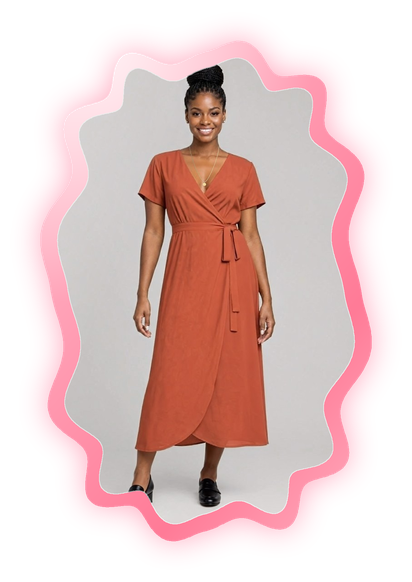
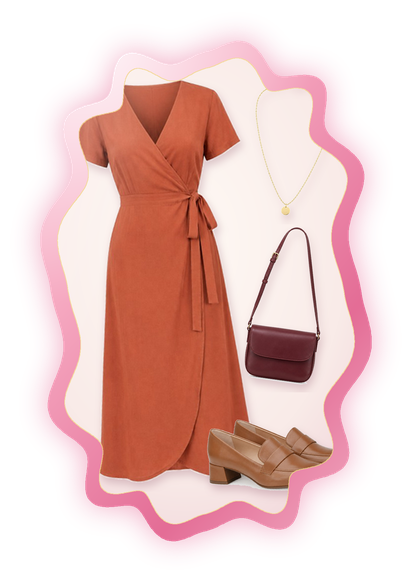
Glam opening: rose squiggle mirror reflects the cart as a flat-lay (pieces land with sparkle bursts, champagne dust, whole-cart total); unify palette to emerald, champagne and one rose accent

diff --git a/src/components/home/HeroMirror.tsx b/src/components/home/HeroMirror.tsx
@@ -4,63 +4,98 @@ import { useEffect, useId, useMemo, useState } from "react";
 import { mirrorPaths } from "@/lib/mirror";
 import { Mirror } from "@/components/Mirror";
 
-export type HeroFrame = { src: string; label: string; thumb?: string; detail?: string };
-export type HeroLook = { name: string; frames: HeroFrame[] };
+export type HeroSlot = "full" | "shoes" | "bag" | "necklace";
+export type HeroPiece = { src: string; name: string; detail: string; price: number; slot: HeroSlot };
+export type HeroLook = { name: string; pieces: HeroPiece[] };
 
-const STARS: [number, number, number, number][] = [[3, 20, 1.1, 0], [97, 46, .8, 1.1], [1, 108, .7, 2.2], [98, 122, 1.2, .6], [72, -3, .7, 1.7]];
+/* Where each piece lands in the flat-lay (mirror glass is 100 × 150): x, y, w, h, tilt */
+const SLOT: Record<HeroSlot, [number, number, number, number, number]> = {
+  full: [12, 13, 52, 118, -4],
+  necklace: [61, 13, 28, 40, 5],
+  bag: [58, 56, 32, 46, 8],
+  shoes: [50, 110, 42, 26, -7],
+};
 const STAR = "M0 -3C.35 -.35 .35 -.35 3 0C.35 .35 .35 .35 0 3C-.35 .35 -.35 .35 -3 0C-.35 -.35 -.35 -.35 0 -3Z";
+const STARS: [number, number, number, number][] = [[3, 20, 1.1, 0], [97, 46, .8, 1.1], [1, 108, .7, 2.2], [98, 122, 1.2, .6], [72, -3, .7, 1.7]];
+const BURST: [number, number][] = [[0, -15], [13, -8], [14, 7], [0, 15], [-13, 8], [-14, -7]];
+const DUST = Array.from({ length: 16 }, (_, i) => ({ x: 8 + ((i * 37) % 84), y: 40 + ((i * 53) % 100), r: .35 + (i % 3) * .25, d: (i * .83) % 7, t: 6 + (i % 4) }));
+const TICK = 1500;
 
-/** A glossy blush squiggle mirror whose edge ripples like liquid, dressing a model one cart item at a time (real YouCam outputs). */
+/** The opening mirror: a glossy rose squiggle that "reflects" a cart as each piece lands into a styled flat-lay. */
 export function HeroMirror({ looks }: { looks: HeroLook[] }) {
-  const seq = useMemo(() => looks.flatMap((l, li) => l.frames.map((_, fi) => ({ li, fi }))), [looks]);
   const [tick, setTick] = useState(0);
   const [still, setStill] = useState(false);
   useEffect(() => {
     if (window.matchMedia("(prefers-reduced-motion: reduce)").matches) { setStill(true); return; }
-    const t = setInterval(() => setTick((n) => n + 1), 2600);
+    const t = setInterval(() => setTick((n) => n + 1), TICK);
     return () => clearInterval(t);
   }, []);
   const id = useId().replace(/:/g, "");
   const shapes = useMemo(() => Array.from({ length: 9 }, (_, i) => mirrorPaths({ ratio: 1.5, rim: 5, amp: 3.4, waves: 12, phase: (i / 8) * Math.PI * 2 })), []);
-  const { li, fi } = seq[tick % seq.length];
+
+  const cycles = looks.map((l) => l.pieces.length + 4);
+  let t = still ? 0 : tick % cycles.reduce((a, b) => a + b, 0), li = 0;
+  while (t >= cycles[li]) { t -= cycles[li]; li++; }
   const look = looks[li];
-  const frame = look.frames[fi];
+  const n = look.pieces.length;
+  const landed = still ? n : Math.min(t, n);
+  const done = landed === n;
+  const leaving = !still && t === n + 3;
+  const latest = landed > 0 && !done ? look.pieces[landed - 1] : null;
+  const total = look.pieces.reduce((s, p) => s + p.price, 0);
+
   const morph = (k: "outer" | "inner") => still ? null :
     <animate attributeName="d" dur="14s" repeatCount="indefinite" values={shapes.map((s) => s[k]).join(";")} />;
   const u = (s: string) => `url(#${id}${s})`;
 
   return (
     <div className="relative mx-auto w-[min(68vw,300px)] sm:w-[310px] lg:w-[min(330px,calc((100svh-230px)/1.43))]">
-      <div className="glow-pulse pointer-events-none absolute -inset-12 rounded-full bg-[radial-gradient(closest-side,rgba(255,150,180,.42),transparent)] blur-2xl" />
+      <div className="glow-pulse pointer-events-none absolute -inset-12 rounded-full bg-[radial-gradient(closest-side,rgba(236,143,176,.4),transparent)] blur-2xl" />
       <div className="pointer-events-none absolute -bottom-6 left-1/2 h-10 w-[110%] -translate-x-1/2 rounded-[50%] bg-black/40 blur-xl" />
       <div className="float-slow relative">
-        <svg viewBox="-8 -8 116 166" className="relative block w-full overflow-visible" role="img" aria-label={`${look.name}: ${frame.label}`}>
+        <svg viewBox="-8 -8 116 166" className="relative block w-full overflow-visible" role="img"
+          aria-label={`${look.name}: ${look.pieces.map((p) => p.name).join(", ")}`}>
           <defs>
             <linearGradient id={`${id}r`} x1="0" y1="0" x2="1" y2="1">
-              <stop offset="0" stopColor="#ffe6ec" /><stop offset=".35" stopColor="#ffa3b8" /><stop offset=".68" stopColor="#ff7b97" /><stop offset="1" stopColor="#ffc6d2" />
+              <stop offset="0" stopColor="#ffe4ec" /><stop offset=".35" stopColor="#f6a9c1" /><stop offset=".68" stopColor="#e46d96" /><stop offset="1" stopColor="#f8cbd8" />
             </linearGradient>
             <radialGradient id={`${id}h`} cx=".26" cy=".08" r=".55">
-              <stop offset="0" stopColor="#fff" stopOpacity=".95" /><stop offset="1" stopColor="#fff" stopOpacity="0" />
+              <stop offset="0" stopColor="#fff" stopOpacity=".9" /><stop offset="1" stopColor="#fff" stopOpacity="0" />
+            </radialGradient>
+            <radialGradient id={`${id}b`} cx=".45" cy=".42" r=".75">
+              <stop offset="0" stopColor="#fffaf5" /><stop offset=".7" stopColor="#f9ebe8" /><stop offset="1" stopColor="#f1d6db" />
             </radialGradient>
             <linearGradient id={`${id}g`} x1="0" y1="0" x2="1" y2=".65">
-              <stop offset="0" stopColor="#fff" stopOpacity=".34" /><stop offset=".3" stopColor="#fff" stopOpacity="0" />
-              <stop offset=".75" stopColor="#fff" stopOpacity="0" /><stop offset="1" stopColor="#ffd6e0" stopOpacity=".3" />
+              <stop offset="0" stopColor="#fff" stopOpacity=".4" /><stop offset=".3" stopColor="#fff" stopOpacity="0" />
+              <stop offset=".75" stopColor="#fff" stopOpacity="0" /><stop offset="1" stopColor="#f6c9d6" stopOpacity=".35" />
             </linearGradient>
             <linearGradient id={`${id}s`} x1="0" x2="1">
-              <stop offset="0" stopColor="#fff" stopOpacity="0" /><stop offset=".5" stopColor="#fff" stopOpacity=".42" /><stop offset="1" stopColor="#fff" stopOpacity="0" />
+              <stop offset="0" stopColor="#fff" stopOpacity="0" /><stop offset=".5" stopColor="#fff6e0" stopOpacity=".55" /><stop offset="1" stopColor="#fff" stopOpacity="0" />
             </linearGradient>
             <filter id={`${id}f`} x="-30%" y="-30%" width="160%" height="160%"><feGaussianBlur stdDeviation="3.5" /></filter>
+            <filter id={`${id}d`} x="-20%" y="-20%" width="140%" height="140%"><feDropShadow dx=".6" dy="1.6" stdDeviation="1.4" floodColor="#6b2440" floodOpacity=".22" /></filter>
             <clipPath id={`${id}c`}><path d={shapes[0].inner}>{morph("inner")}</path></clipPath>
           </defs>
-          <path d={shapes[0].outer} fill="#ff8fab" opacity=".6" filter={u("f")}>{morph("outer")}</path>
+          <path d={shapes[0].outer} fill="#ec8fb0" opacity=".6" filter={u("f")}>{morph("outer")}</path>
           <path d={shapes[0].outer} fill={u("r")}>{morph("outer")}</path>
           <path d={shapes[0].outer} fill={u("h")}>{morph("outer")}</path>
           <g clipPath={u("c")}>
-            <rect x="0" y="0" width="100" height="150" fill="#ece5e1" />
-            {looks.flatMap((l, a) => l.frames.map((f, b) => (
-              <image key={`${a}-${b}`} href={f.src} x="2" y="2" width="96" height="146" preserveAspectRatio="xMidYMid slice"
-                style={{ opacity: a === li && b === fi ? 1 : 0, transition: "opacity .9s ease" }} />
-            )))}
+            <rect x="0" y="0" width="100" height="150" fill={u("b")} />
+            {DUST.map((p, i) => (
+              <circle key={i} className="dust" cx={p.x} cy={p.y} r={p.r} fill="#e8c46c"
+                style={{ "--d": `${p.d}s`, "--t": `${p.t}s` } as React.CSSProperties} />
+            ))}
+            <g key={li} filter={u("d")} style={{ opacity: leaving ? 0 : 1, transition: "opacity .9s ease" }}>
+              {look.pieces.map((p, i) => {
+                const [x, y, w, h, r] = SLOT[p.slot], on = i < landed;
+                return (
+                  <image key={p.src} href={p.src} x={x} y={y} width={w} height={h} preserveAspectRatio="xMidYMid meet"
+                    style={{ transformBox: "fill-box", transformOrigin: "center", opacity: on ? 1 : 0,
+                      transform: on ? `rotate(${r}deg)` : `translateY(-22px) scale(.55) rotate(${r - 24}deg)`,
+                      transition: "opacity .5s ease, transform .9s cubic-bezier(.2,1.5,.4,1)" }} />
+                );
+              })}
+            </g>
             <rect x="0" y="0" width="100" height="150" fill={u("g")} />
             {!still && (
               <rect x="-60" y="-10" width="36" height="170" fill={u("s")} transform="skewX(-12)">
@@ -68,33 +103,58 @@ export function HeroMirror({ looks }: { looks: HeroLook[] }) {
               </rect>
             )}
           </g>
-          <path d={shapes[0].inner} fill="none" stroke="#fff" strokeOpacity=".6" strokeWidth=".7">{morph("inner")}</path>
+          <path d={shapes[0].inner} fill="none" stroke="#f3d58f" strokeOpacity=".85" strokeWidth=".8">{morph("inner")}</path>
+          {!still && landed > 0 && (() => {
+            const [x, y, w, h] = done ? [0, 0, 100, 150] : SLOT[look.pieces[landed - 1].slot];
+            const s = done ? 2.4 : 1;
+            return (
+              <g key={`${li}-${landed}`} transform={`translate(${x + w / 2} ${y + h / 2})`}>
+                {BURST.map(([dx, dy], i) => (
+                  <path key={i} className="burst" d={STAR} fill={i % 2 ? "#fff" : "#f3d58f"}
+                    style={{ "--dx": `${dx * s}px`, "--dy": `${dy * s}px`, animationDelay: `${i * 40}ms` } as React.CSSProperties} />
+                ))}
+              </g>
+            );
+          })()}
           {STARS.map(([x, y, s, d]) => (
             <g key={`${x}-${y}`} transform={`translate(${x} ${y}) scale(${s})`}>
               <path className="twinkle" d={STAR} fill="#fff" style={{ animationDelay: `${d}s` }} />
             </g>
           ))}
         </svg>
-        <p className="absolute bottom-[10%] left-1/2 -translate-x-1/2 whitespace-nowrap rounded-full bg-black/45 px-3 py-1 font-mono text-[10px] uppercase tracking-[0.18em] text-white backdrop-blur">
+        <p className="absolute bottom-[9%] left-1/2 -translate-x-1/2 whitespace-nowrap rounded-full bg-velvet-deep/80 px-3 py-1 font-mono text-[10px] uppercase tracking-[0.18em] text-lime backdrop-blur">
           {look.name}
         </p>
       </div>
 
-      {frame.thumb && (
-        <div key={tick} className="tag-in absolute -right-8 top-[36%] w-28 rounded-2xl bg-paper p-2 text-ink shadow-[0_20px_40px_-18px_rgba(0,0,0,.6)] sm:-right-28 sm:w-36">
-          <Mirror ratio={1} rim={5} amp={3.5} waves={8} glass="bg-[#f0f0f0]"><img src={frame.thumb} alt="" className="h-full w-full object-contain p-2.5" /></Mirror>
-          <p className="mt-1.5 px-1 text-[11px] font-semibold leading-tight">{frame.label.replace(/^\+ /, "")}</p>
-          {frame.detail && <p className="px-1 text-[10px] text-muted">{frame.detail}</p>}
-          <span className="absolute -left-2 -top-2 grid h-6 w-6 place-items-center rounded-full bg-coral text-xs font-bold text-white">+</span>
+      {(latest || done) && (
+        <div key={`${li}-${landed}`} className="tag-in absolute -right-8 top-[36%] w-28 rounded-2xl bg-paper p-2 text-ink shadow-[0_20px_40px_-18px_rgba(0,0,0,.6)] sm:-right-28 sm:w-36">
+          {latest ? (
+            <>
+              <Mirror ratio={1} rim={5} amp={3.5} waves={8} glass="bg-[#fbf3f4]"><img src={latest.src} alt="" className="h-full w-full object-contain p-3" /></Mirror>
+              <p className="mt-1.5 px-1 text-[11px] font-semibold leading-tight">{latest.name}</p>
+              <p className="px-1 text-[10px] text-muted">{latest.detail}</p>
+            </>
+          ) : (
+            <div className="px-1 py-2 text-center">
+              <p className="font-mono text-[9px] uppercase tracking-[0.2em] text-coral">The whole cart</p>
+              <p className="serif-i mt-1 text-2xl leading-none">${total}</p>
+              <p className="mt-1.5 text-[10px] leading-snug text-muted">{n} pieces, seen together before checkout</p>
+            </div>
+          )}
+          <span className="absolute -left-2 -top-2 grid h-6 w-6 place-items-center rounded-full bg-coral text-xs font-bold text-white">{latest ? "+" : "✓"}</span>
         </div>
       )}
 
       <ol className="relative mt-8 flex flex-wrap justify-center gap-1.5">
-        {look.frames.map((f, i) => (
-          <li key={f.label} className={`rounded-full px-2.5 py-1 text-[11px] transition ${i === fi ? "bg-[#ff9fb5] text-[#4a0f22]" : i < fi ? "bg-white/20 text-white" : "bg-white/5 text-white/50"}`}>
-            {i === 0 ? "Her photo" : f.label.replace(/^\+ /, "")}
-          </li>
-        ))}
+        {[...look.pieces.map((p) => p.name), "Complete look"].map((name, i) => {
+          const at = done ? n : landed - 1;
+          return (
+            <li key={name} className={`rounded-full px-2.5 py-1 text-[11px] transition ${i === at ? "bg-blush text-velvet-deep" : i < at ? "bg-white/20 text-white" : "bg-white/5 text-white/50"}`}>
+              {name}
+            </li>
+          );
+        })}
       </ol>
     </div>
   );

diff --git a/src/app/(store)/page.tsx b/src/app/(store)/page.tsx
@@ -8,24 +8,30 @@ import { Mirror } from "@/components/Mirror";
 
 const looks = (manifest as { looks: Record<string, string> }).looks;
 const HERO: HeroLook[] = [
-  { name: "Zola · dinner look", frames: [
-    { src: "/hero/zola.jpg", label: "Photo" },
-    { src: "/hero/zola-dinner-0.jpg", label: "+ Wrap dress", thumb: "/products/wrap-dress-terracotta.jpg", detail: "Terracotta · $112" },
-    { src: "/hero/zola-dinner-1.jpg", label: "+ Loafers", thumb: "/products/block-heel-loafers-black.jpg", detail: "Black · $118" },
-    { src: "/hero/zola-dinner-2.jpg", label: "+ Pendant", thumb: "/products/gold-pendant-pendant.jpg", detail: "Gold · $58" },
+  { name: "Look 01 · Dinner", pieces: [
+    { src: "/hero/cut/wrap-dress-terracotta.png", name: "Wrap dress", detail: "Terracotta · $112", price: 112, slot: "full" },
+    { src: "/hero/cut/block-heel-loafers-tan.png", name: "Loafers", detail: "Tan · $118", price: 118, slot: "shoes" },
+    { src: "/hero/cut/mini-crossbody-burgundy.png", name: "Mini crossbody", detail: "Burgundy · $98", price: 98, slot: "bag" },
+    { src: "/hero/cut/gold-pendant-pendant.png", name: "Gold pendant", detail: "Gold · $58", price: 58, slot: "necklace" },
   ] },
-  { name: "Zola · studio look", frames: [
-    { src: "/hero/zola.jpg", label: "Photo" },
-    { src: "/hero/zola-studio-0.jpg", label: "+ Knit top", thumb: "/products/ribbed-knit-top-black.jpg", detail: "Black · $42" },
-    { src: "/hero/zola-studio-1.jpg", label: "+ Midi skirt", thumb: "/products/pleated-midi-skirt-sage.jpg", detail: "Sage · $74" },
-    { src: "/hero/zola-studio-2.jpg", label: "+ Loafers", thumb: "/products/block-heel-loafers-tan.jpg", detail: "Tan · $118" },
+  { name: "Look 02 · Gallery", pieces: [
+    { src: "/hero/cut/jumpsuit-black.png", name: "Jumpsuit", detail: "Black · $128", price: 128, slot: "full" },
+    { src: "/hero/cut/block-heel-loafers-black.png", name: "Loafers", detail: "Black · $118", price: 118, slot: "shoes" },
+    { src: "/hero/cut/leather-tote-cognac.png", name: "Leather tote", detail: "Cognac · $165", price: 165, slot: "bag" },
+    { src: "/hero/cut/gold-pendant-hoops.png", name: "Gold hoops", detail: "Gold · $58", price: 58, slot: "necklace" },
+  ] },
+  { name: "Look 03 · Brunch", pieces: [
+    { src: "/hero/cut/wrap-dress-sage.png", name: "Wrap dress", detail: "Sage · $112", price: 112, slot: "full" },
+    { src: "/hero/cut/block-heel-loafers-tan.png", name: "Loafers", detail: "Tan · $118", price: 118, slot: "shoes" },
+    { src: "/hero/cut/mini-crossbody-cream.png", name: "Mini crossbody", detail: "Cream · $98", price: 98, slot: "bag" },
+    { src: "/hero/cut/gold-pendant-hoops.png", name: "Gold hoops", detail: "Gold · $58", price: 58, slot: "necklace" },
   ] },
 ];
 
 const STEPS = [
   { n: "01", t: "Fill your cart", d: "Pick a dress or a top and skirt, then shoes, a bag and jewellery. Mix colours and fabrics like you would in a store.", img: ["/products/wrap-dress-sage.jpg", "/products/block-heel-loafers-tan.jpg", "/products/mini-crossbody-cream.jpg"] },
   { n: "02", t: "Add one photo", d: "A full-length, front-facing photo works best. We frame it around you automatically, or you can use one of our sample models.", img: ["/demo/models/amara.jpg"] },
-  { n: "03", t: "See it all on you", d: "Each piece is put on in order, so you see one complete outfit. Swap a colour or fabric, remove what doesn't work, then check out.", img: [HERO[0].frames[3].src] },
+  { n: "03", t: "See it all on you", d: "Each piece is put on in order, so you see one complete outfit. Swap a colour or fabric, remove what doesn't work, then check out.", img: ["/hero/zola-dinner-2.jpg"] },
 ];
 
 export default function Home() {
@@ -44,7 +50,7 @@ export default function Home() {
               Mirrorcart is a fitting room for online shops. Add a dress, shoes and a bag, upload one photo, and see the <em>whole outfit on you</em>, not on a model.
             </p>
             <div className="mt-8 flex flex-wrap items-center gap-3">
-              <Link href="#shop" className="rounded-full bg-coral px-7 py-3.5 font-semibold text-white shadow-[0_12px_30px_-10px_rgba(255,107,74,.8)] transition hover:-translate-y-0.5">Start with a dress</Link>
+              <Link href="#shop" className="rounded-full bg-coral px-7 py-3.5 font-semibold text-white shadow-[0_12px_30px_-10px_rgba(217,70,122,.8)] transition hover:-translate-y-0.5">Start with a dress</Link>
               <Link href="#how" className="rounded-full border border-white/30 px-6 py-3.5 transition hover:bg-white/10">How it works</Link>
             </div>
             <p className="mt-8 max-w-md border-l-2 border-lime/70 pl-4 text-sm text-white/65">

diff --git a/src/app/globals.css b/src/app/globals.css
@@ -1,6 +1,6 @@
 @import "tailwindcss";
 
-/* Mirrorcart · "The Fitting Room": emerald velvet curtain, chrome mirror, brass hardware, coral price tag. */
+/* Mirrorcart · "The Fitting Room": emerald velvet, champagne gold, one rose accent, glossy rose squiggle mirrors. */
 :root {
   --ink: #0d1a15;
   --paper: #f7f9f7;
@@ -13,9 +13,9 @@
   --glass: #072b21;     /* deep emerald, used by the try-on modal */
   --velvet: #0f4434;
   --velvet-deep: #072b21;
-  --coral: #ff6b4a;
+  --coral: #d9467a;   /* rose: the one accent (token name kept) */
   --brass: #c9a24c;
-  --blush: #ff9fb5;
+  --blush: #f6a9c1;
 }
 
 @theme inline {
@@ -32,6 +32,7 @@
   --color-velvet-deep: var(--velvet-deep);
   --color-coral: var(--coral);
   --color-brass: var(--brass);
+  --color-blush: var(--blush);
   --font-display: var(--font-archivo);
   --font-sans: var(--font-hanken);
   --font-mono: var(--font-dmmono);
@@ -73,11 +74,11 @@ body { font-family: var(--font-hanken), system-ui, sans-serif; -webkit-font-smoo
 .mirror-rim { background:
   radial-gradient(60% 38% at 28% 12%, rgba(255,255,255,.45), transparent 60%),
   radial-gradient(60% 40% at 80% 92%, rgba(255,255,255,.55), transparent 65%),
-  linear-gradient(160deg, #ffd6df 0%, #ff9fb5 38%, #ff7e98 62%, #ffb3c3 100%); }
+  linear-gradient(160deg, #ffe4ec 0%, #f6a9c1 38%, #e46d96 62%, #f8cbd8 100%); }
 .mirror-glare { background:
-  linear-gradient(125deg, rgba(255,255,255,.28) 0%, rgba(255,255,255,0) 26%, rgba(255,255,255,0) 72%, rgba(255,214,224,.22) 100%);
-  box-shadow: inset 0 0 30px rgba(255, 140, 170, .25); }
-.group:hover .mirror { filter: drop-shadow(0 18px 30px rgba(255, 110, 150, .38)); transform: translateY(-3px) rotate(-.6deg); }
+  linear-gradient(125deg, rgba(255,255,255,.28) 0%, rgba(255,255,255,0) 26%, rgba(255,255,255,0) 72%, rgba(246,201,214,.24) 100%);
+  box-shadow: inset 0 0 0 1.5px rgba(243,213,143,.55), inset 0 0 30px rgba(228, 109, 150, .2); }
+.group:hover .mirror { filter: drop-shadow(0 18px 30px rgba(228, 109, 150, .38)); transform: translateY(-3px) rotate(-.6deg); }
 .twinkle { animation: twinkle 3.2s ease-in-out infinite; transform-box: fill-box; transform-origin: center; }
 @keyframes twinkle { 0%, 100% { opacity: 0; transform: scale(.4) rotate(0deg); } 45% { opacity: 1; transform: scale(1) rotate(45deg); } 70% { opacity: .2; } }
 .glow-pulse { animation: glow-pulse 4.5s ease-in-out infinite; }
@@ -85,7 +86,7 @@ body { font-family: var(--font-hanken), system-ui, sans-serif; -webkit-font-smoo
 
 /* Iridescent edge on the try-on widget */
 .mirror-edge {
-  background: conic-gradient(from var(--a, 0deg), #ff9fb5, #ffd6df, #ffffff, #e8c46c, #ff7e98, #ff9fb5);
+  background: conic-gradient(from var(--a, 0deg), #f6a9c1, #ffe4ec, #ffffff, #e8c46c, #e46d96, #f6a9c1);
   animation: spin-edge 7s linear infinite;
 }
 @property --a { syntax: "<angle>"; inherits: false; initial-value: 0deg; }
@@ -125,8 +126,14 @@ body { font-family: var(--font-hanken), system-ui, sans-serif; -webkit-font-smoo
 
 .no-scrollbar { scrollbar-width: none; } .no-scrollbar::-webkit-scrollbar { display: none; }
 
+/* Glam: sparkle bursts as a piece lands, champagne dust drifting in the glass */
+.burst { opacity: 0; transform-box: fill-box; transform-origin: center; animation: burst 1.1s cubic-bezier(.2,.8,.3,1) forwards; }
+@keyframes burst { 0% { opacity: 0; transform: translate(0, 0) scale(.2); } 25% { opacity: 1; } 100% { opacity: 0; transform: translate(var(--dx), var(--dy)) scale(1) rotate(90deg); } }
+.dust { opacity: 0; animation: dust var(--t, 7s) linear var(--d, 0s) infinite; }
+@keyframes dust { 0% { opacity: 0; transform: translateY(0); } 20% { opacity: .9; } 80% { opacity: .5; } 100% { opacity: 0; transform: translateY(-38px); } }
+
 @media (prefers-reduced-motion: reduce) {
-  .mirror-edge, .sheen::after, .twinkle, .glow-pulse, .float-slow, .marquee, .curtain-in, .rise, .reveal, .float, .tag-in, .group:hover .swing-tag { animation: none !important; }
+  .mirror-edge, .sheen::after, .twinkle, .burst, .dust, .glow-pulse, .float-slow, .marquee, .curtain-in, .rise, .reveal, .float, .tag-in, .group:hover .swing-tag { animation: none !important; }
   .curtain { display: none; }
 }
 

diff --git a/src/components/CartView.tsx b/src/components/CartView.tsx
@@ -44,7 +44,7 @@ export function CartView() {
           <aside className="h-fit rounded-3xl bg-ink p-6 text-white lg:sticky lg:top-28">
             <div className="flex justify-between font-mono text-sm"><span>Subtotal</span><span>{money(total)} <span className="text-white/50">pretend</span></span></div>
             <button onClick={() => setOpen(true)}
-              className="sheen mt-6 w-full rounded-full bg-coral px-6 py-4 font-display text-lg font-bold text-white shadow-[0_14px_34px_-12px_rgba(255,107,74,.9)] transition hover:scale-[1.01]">
+              className="sheen mt-6 w-full rounded-full bg-coral px-6 py-4 font-display text-lg font-bold text-white shadow-[0_14px_34px_-12px_rgba(217,70,122,.9)] transition hover:scale-[1.01]">
               See it on me
             </button>
             <p className="mt-3 text-xs text-white/60">Upload one photo (or pick a sample model) and see every item in your cart on you, in order: garments → shoes → bag → jewellery.</p>

diff --git a/src/app/opengraph-image.tsx b/src/app/opengraph-image.tsx
@@ -26,7 +26,7 @@ export default async function OG() {
           <div style={{ display: "flex", fontSize: 26, color: "#cfe3d9" }}>One photo. Dress, shoes, bag & jewellery.</div>
         </div>
         <img src={mirror} alt="" width={412} height={582} style={{ position: "absolute", right: 90, top: 24, width: 412, height: 582 }} />
-        <div style={{ position: "absolute", right: 410, top: 110, display: "flex", background: "#ff6b4a", color: "#fff", fontSize: 24, fontWeight: 700, padding: "10px 18px", borderRadius: 999, transform: "rotate(-6deg)" }}>See it on me</div>
+        <div style={{ position: "absolute", right: 410, top: 110, display: "flex", background: "#d9467a", color: "#fff", fontSize: 24, fontWeight: 700, padding: "10px 18px", borderRadius: 999, transform: "rotate(-6deg)" }}>See it on me</div>
       </div>
     ),
     size,

diff --git a/src/components/ProductDetail.tsx b/src/components/ProductDetail.tsx
@@ -39,7 +39,7 @@ export function ProductDetail({ product }: { product: Product }) {
         <div className="mt-8 flex flex-wrap items-center gap-3">
           <button
             onClick={() => { cart.add(product.id, v.id); setAdded(true); }}
-            className="rounded-full bg-coral px-8 py-3.5 font-semibold text-white shadow-[0_12px_30px_-12px_rgba(255,107,74,.9)] transition hover:-translate-y-0.5">
+            className="rounded-full bg-coral px-8 py-3.5 font-semibold text-white shadow-[0_12px_30px_-12px_rgba(217,70,122,.9)] transition hover:-translate-y-0.5">
             {added ? "Added ✓ Add another" : "Add to cart"}
           </button>
           {added && <Link href="/cart" className="rounded-full border border-ink/20 px-6 py-3.5 hover:bg-fog">Go to cart →</Link>}

diff --git a/src/components/Logo.tsx b/src/components/Logo.tsx
@@ -18,7 +18,7 @@ export function MirrorMark({ className = "h-8 w-8", tone = "dark" }: { className
       <path d="M5 30V17.5a11 11 0 0 1 22 0V30z" fill={`url(#c${id})`} />
       <path d="M7.6 28.2V17.6a8.4 8.4 0 0 1 16.8 0v10.6z" fill={`url(#g${id})`} />
       <path d="M11 25.5l7.5-10M14.5 27l6-8" stroke="#ffffff" strokeOpacity=".7" strokeWidth="1.4" strokeLinecap="round" />
-      <circle cx="16" cy="28.9" r="1" fill="#ff6b4a" />
+      <circle cx="16" cy="28.9" r="1" fill="#d9467a" />
     </svg>
   );
 }

diff --git a/public/products/CREDITS.md b/public/products/CREDITS.md
@@ -28,4 +28,5 @@ No YouCam sample URLs are shipped in the product.
 |---|---|---|
 | `public/hero/zola.jpg` | AI-generated fictional model (no real person), generated for this project | Project-owned, MIT |
 | `public/hero/zola-*.jpg` | YouCam API try-on outputs (cloth-v4, shoes-transfer, 2d-vto/necklace) of the image above wearing this catalogue | Project-owned, MIT |
-| `public/hero/og-mirror.png` | Share-image render of the Mirrorcart squiggle mirror (drawn in code) with the try-on above | Project-owned, MIT |
+| `public/hero/og-mirror.png` | Share-image render of the Mirrorcart squiggle mirror (drawn in code) with a cart flat-lay inside | Project-owned, MIT |
+| `public/hero/cut/*.png` | Background-removed cut-outs of the product images above, used in the opening mirror | Same as the source product images |
